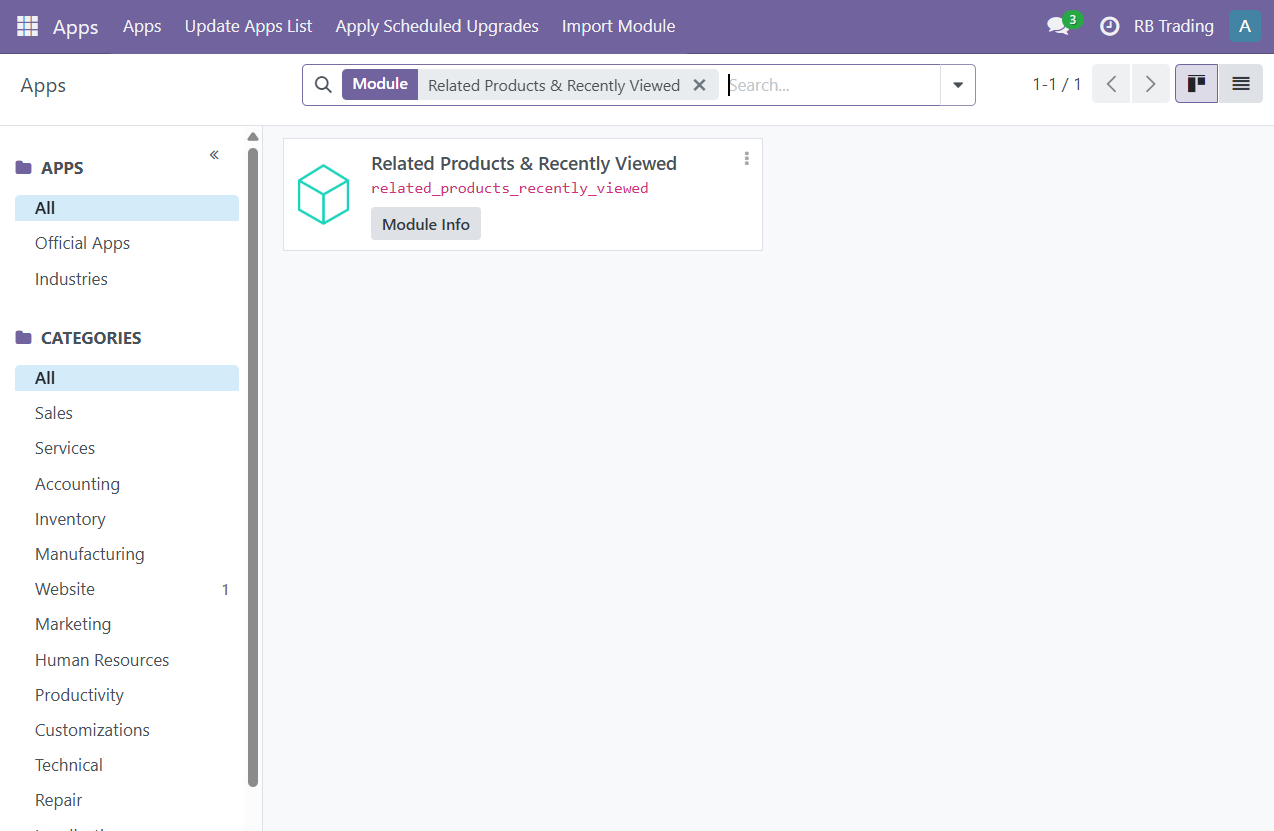
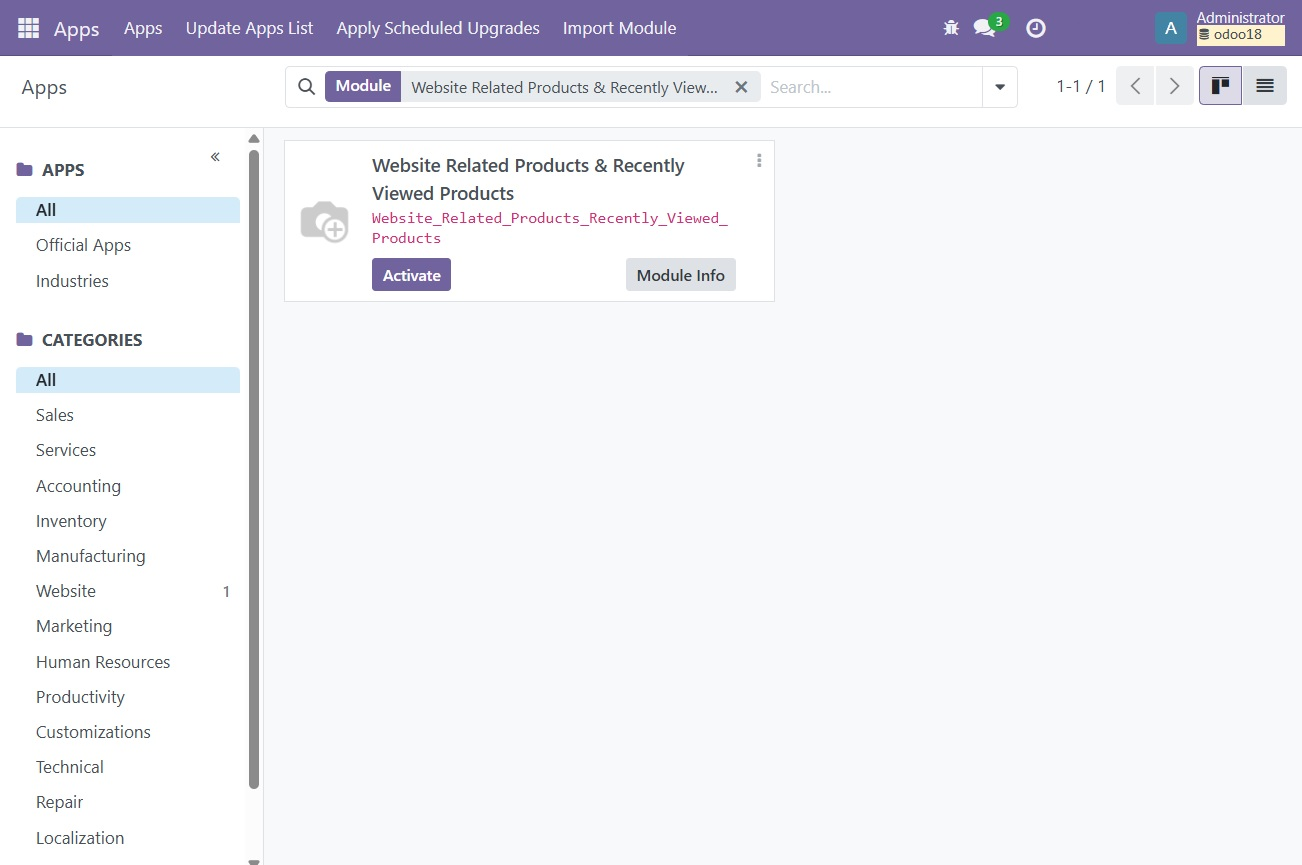
ask

diff --git a/related_products_recently_viewed/__manifest__.py b/related_products_recently_viewed/__manifest__.py
@@ -1,11 +1,11 @@
-{
-    'name': 'Related Products & Recently Viewed',
-    'version': '2.3',
+{ 
+    'name': 'Website Related Products & Recently Viewed Products',
+    'version': '2.4',
     'category': 'Website',
     'author': 'Real Tech',
     'license': 'LGPL-3',
     'summary': 'Display related products and recently viewed items on product details page',
-    'price': 1,
+    'price': 25.00,
     'currency': 'USD',
     'depends': ['website'],
     'data': [
